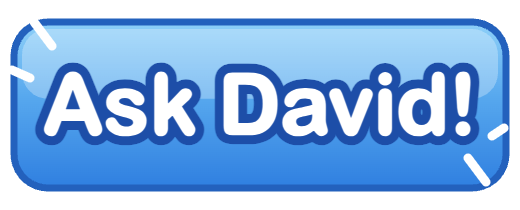
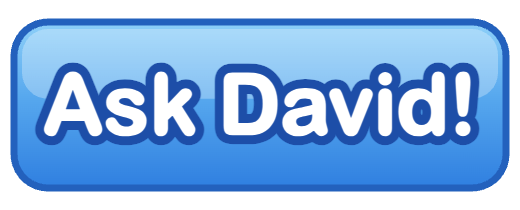
Concierge FAB: lower the Ask David! pill, remove dash strokes from the art
Pill moves from bottom:18% to 8% of the FAB; the white corner dashes in
concierge-talk.png are inpainted away (mirror-symmetric pixel copy).

diff --git a/public/index.html b/public/index.html
@@ -184,7 +184,7 @@
     filter:drop-shadow(0 4px 10px rgba(0,0,0,.5));
   }
   #agentFab img { display:block; width:100%; pointer-events:none; }
-  #agentFab img.talk { position:absolute; left:14%; bottom:18%; width:72%; } /* pill overlaps his chest, per the source art */
+  #agentFab img.talk { position:absolute; left:14%; bottom:8%; width:72%; } /* pill overlaps his chest, per the source art */
   #agentFab:hover { transform:scale(1.05) translateY(-2px); }
   @media (max-width: 600px) { #agentFab { width:92px; right:8px; bottom:52px; } } /* clear the mobile control bar */
   #agentPanel { /* full-height side panel, glass over the scene */